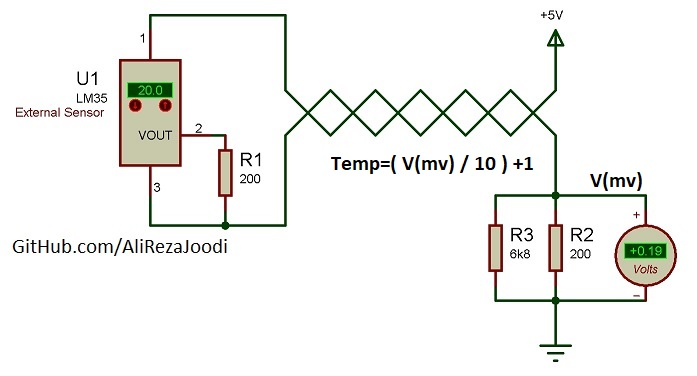
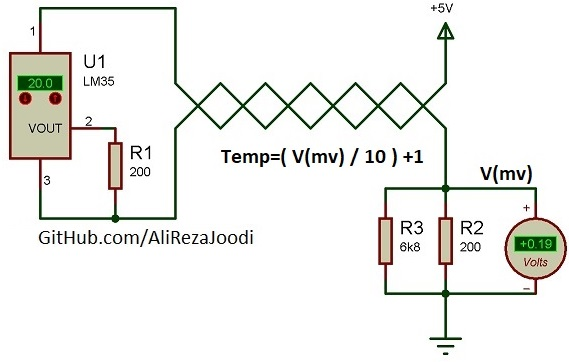
Update

Changed region(s): [[0.0, 0.0, 1.0, 0.9724]]

diff --git a/Sensor_LM35_2Wire/README.md b/Sensor_LM35_2Wire/README.md
@@ -11,7 +11,9 @@ It has included:
 ![](Pictures/v2.0.jpg)
 
 ### Schematic: v2.0
-![](Hardware/v2.0.jpg)
+![](Simulate/v2.0.jpg)
+
+Source: LM35 Datasheet (National Semiconductor), Figure 6
 
 My GitHub: [GitHub.com/AliRezaJoodi](https://github.com/AliRezaJoodi)  
 **Note**: [You can go here to download a single folder or file from GitHub.com](https://minhaskamal.github.io/DownGit/#/home)

diff --git a/Sensor_LM35_2Wire/Simulate/README.md b/Sensor_LM35_2Wire/Simulate/README.md
@@ -2,6 +2,8 @@
 
 v2.0:
 - Last opened with Proteus 8 Professional v8.13 SP0
+- Tested successfully
 
 v1.0:
 - Last opened with Proteus 8 Professional v8.13 SP0
+- Tested successfully
